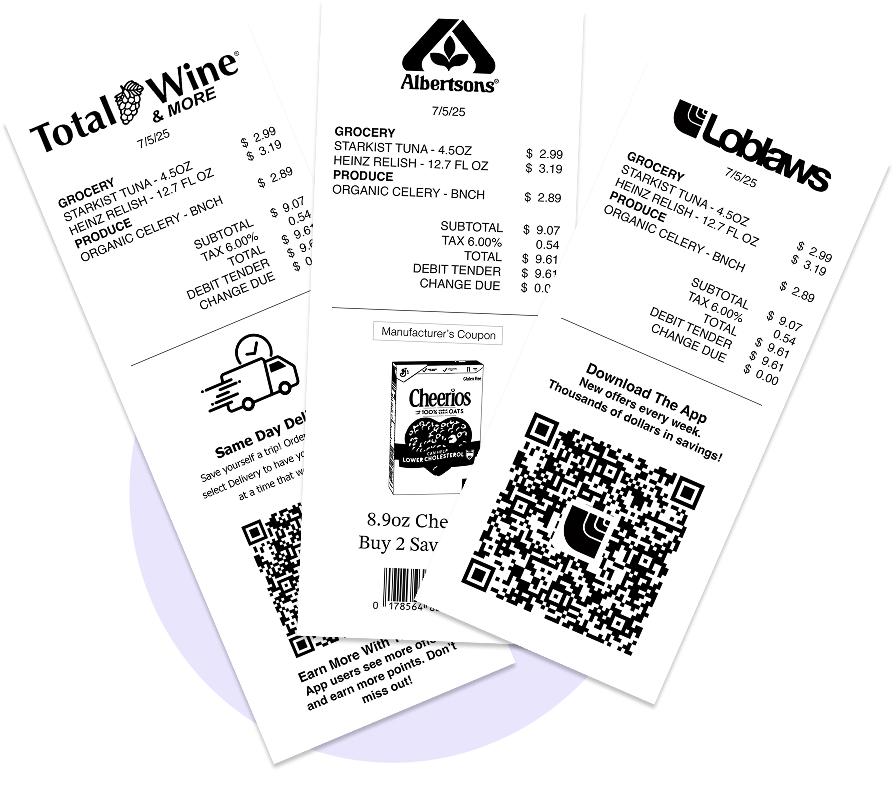
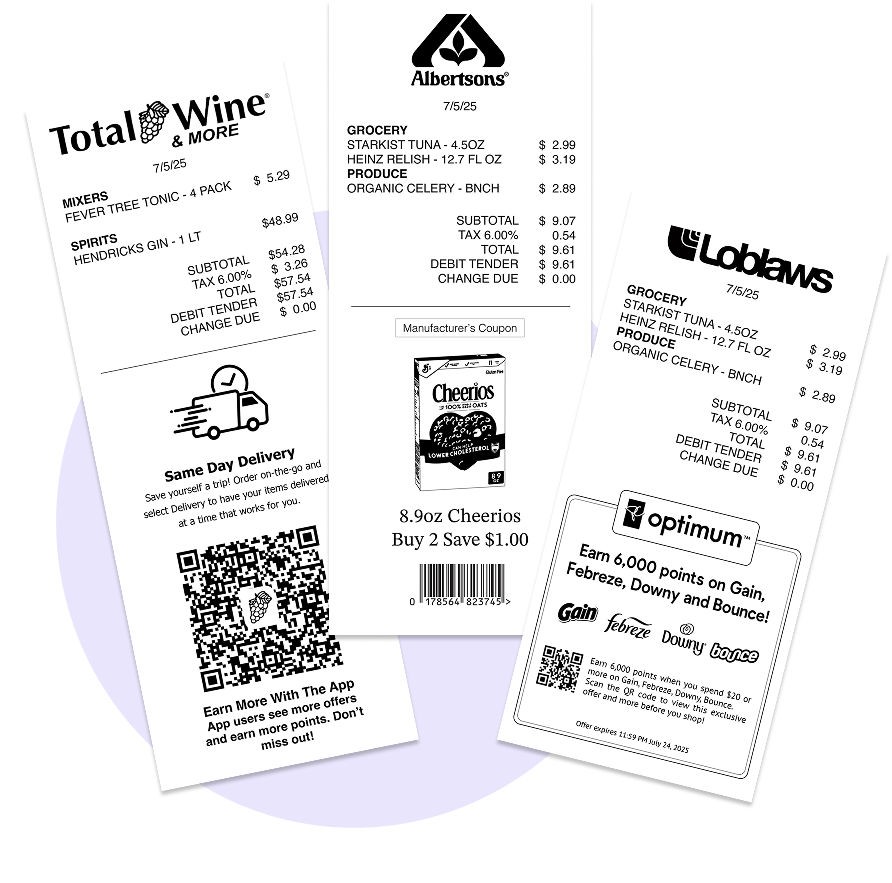
Update hero images

diff --git a/src/index.css b/src/index.css
@@ -1,5 +1,5 @@
 :root {
-  --dark-purple: rgb(40, 43, 74);
+  --dark-purple: #282b4a;
   --white: rgb(255, 255, 255);
   /* --light-purple: rgb(240, 237, 243); */
   --bright-green: rgb(44, 245, 208);
@@ -332,5 +332,5 @@ canvas {
 }
 
 .light-to-dark-product {
-  background: linear-gradient(white 30%, var(--light-purple)40%, var(--light-purple));
+  background: linear-gradient(#f1effc 30%, var(--light-purple)40%, var(--light-purple));
 }

diff --git a/src/Components/TRMHero.jsx b/src/Components/TRMHero.jsx
@@ -6,7 +6,7 @@ export function TRMHero(props) {
     <div>
       <NavbarDemos></NavbarDemos>
       <div className="container.fluid hero-home-cpr bg-trm">
-        <img className="hero-img-trm" src="/assets/receipt_mock-up.webp" />
+        <img className="hero-img-trm" src="/assets/TRMhero.png" />
         <div className="hero-content">
           <h3 className="cpr-title">
             Introducing EcreboTRM <br></br>
